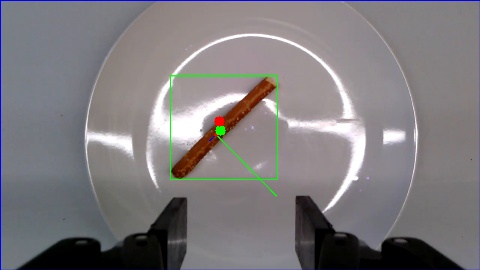
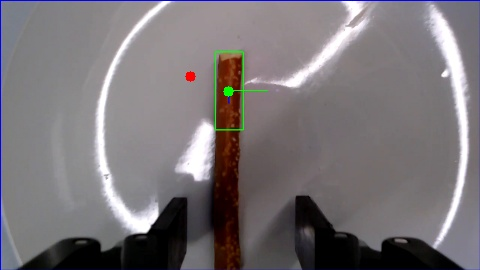
fixed offset

diff --git a/depth_capture/pretzels.py b/depth_capture/pretzels.py
@@ -251,9 +251,9 @@ class ImageProcessor:
 
 
         # #offset = np.array([0.0, 56.39, -3.05]) / 1000
-        depth_offset = np.array([27.50, 00.00, 00.00]) / 1000
+        #depth_offset = np.array([27.50, 00.00, 00.00]) / 1000
 
-        world_coords = world_coords + depth_offset
+       # world_coords = world_coords + depth_offset
         # print("adjusted world coords: ", world_coords + offset)
 
         print("Calculated World Coordinates in Meters:", world_coords)
@@ -362,68 +362,14 @@ class ImageProcessor:
             rospy.loginfo("Publishing object location: %s", object_location)
             pub.publish(object_location)
 
-            self.transform_to_tool_frame(robot_point[:3, 3])
-
+            
             rospy.sleep(1)
             
             return robot_point[:3, 3]  # extract the (x, y, z) coordinates
         except (tf.LookupException, tf.ConnectivityException, tf.ExtrapolationException):
             rospy.logerr("Transform lookup failed")
             return None
-        
-    def transform_to_tool_frame(self, robot_frame_coords):
-         # Wait for the transformation to be available
-        self.listener.waitForTransform("/camera_link", "/tool_frame", rospy.Time(0), rospy.Duration(4.0))
-
-         # Create a TransformStamped object with the world coordinates
-        robot_point = tf.transformations.translation_matrix(robot_frame_coords)
-        robot_point[3][3] = 1.0  # homogeneous coordinate
-
-         # Get the transformation from the world frame to the robot frame
-        try:
-            (trans, rot) = self.listener.lookupTransform('/camera_link', '/tool_frame', rospy.Time(0))
-
-           
-            #print("Normalized Quaternion: ", rot)
-
-            transform = tf.transformations.concatenate_matrices(
-                tf.transformations.translation_matrix(trans),
-                tf.transformations.quaternion_matrix(rot)
-            )
-            #print("Transform: ", transform)
-            # Transform the world coordinates to the robot frame
-            tool_point = np.dot(transform, robot_point)
-             
-            #print("Tool Frame Point Point: ", tool_point)
-
-            #print("Quaternion: ", rot)
-            axis, angle = self.quaternion_to_axis_angle(rot)
-            #print("Axis: ", axis)
-            #print("Angle (radians): ", angle)
-            euler_angles = tf.transformations.euler_from_quaternion(rot)
-
-
-
-            #Pretzel orientation
-            #euler_angles[0] = self.pretzel_angle
-            #Publish the robot point and euler angles
-            offset = np.array([0.00, 56.39, -3.05]) / 1000
-            tool_point[0][3] += offset[0]
-            tool_point[1][3] -= offset[1]
-            tool_point[2][3] += offset[2]
-
             
-            object_location = "x: " + str(tool_point[0][3]) + " y: " + str(tool_point[1][3]) + " z: " + str(tool_point[2][3]) + " roll: " + str(degrees(euler_angles[0])) + " pitch: " + str(degrees(euler_angles[1])) + " yaw: " + str(degrees(self.pretzel_angle))
-            rospy.loginfo("Publishing Tool Frame object location: %s", object_location)
-            #pub.publish(object_location)
-
-            rospy.sleep(1)
-            
-            return tool_point[:3, 3]  # extract the (x, y, z) coordinates
-        except (tf.LookupException, tf.ConnectivityException, tf.ExtrapolationException):
-            rospy.logerr("Transform lookup failed")
-            return None
-        
     
     def publish_marker(self, robot_frame_coords):
         marker = Marker()
